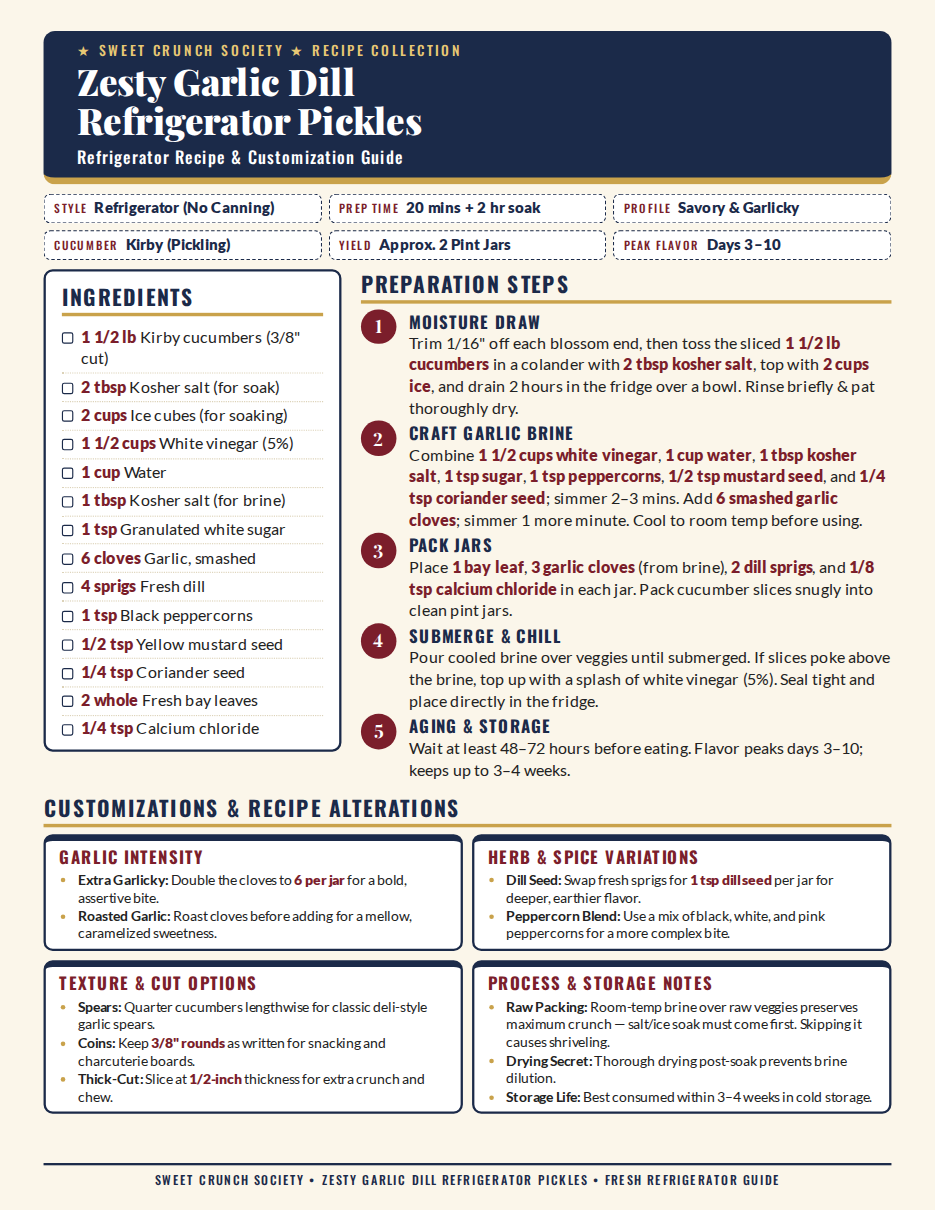
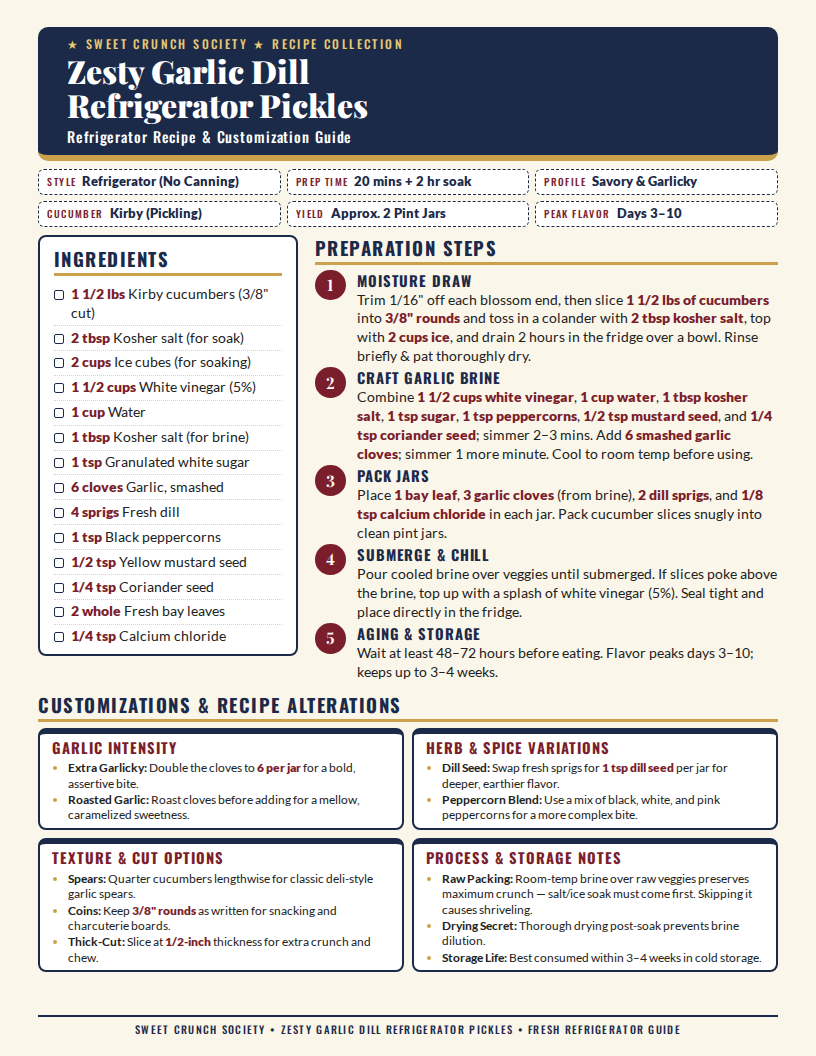
docs: fix lbs plurality and align Moisture Draw wording across recipes
- Ingredients list: "1 1/2 lb" -> "1 1/2 lbs" Kirby cucumbers in both the
  Bread & Butter and Zesty Garlic Dill cards, so the plural matches the
  quantity (audited all other units; they were already correct).
- Zesty Moisture Draw step now matches the Bread & Butter wording:
  "slice 1 1/2 lbs of cucumbers into 3/8" rounds", stating the amount
  first and the cut size explicitly.
- Regenerated docs/preview.png and docs/preview-zesty.png; both sheets
  still fit the letter page with no overflow.

diff --git a/index-zesty.html b/index-zesty.html
@@ -141,7 +141,7 @@
         <div class="ingredients">
           <h2 class="sec" id="ing">Ingredients</h2>
           <ul>
-            <li><span class="box"></span><span><b>1 1/2 lb</b> Kirby cucumbers (3/8" cut)</span></li>
+            <li><span class="box"></span><span><b>1 1/2 lbs</b> Kirby cucumbers (3/8" cut)</span></li>
             <li><span class="box"></span><span><b>2 tbsp</b> Kosher salt (for soak)</span></li>
             <li><span class="box"></span><span><b>2 cups</b> Ice cubes (for soaking)</span></li>
             <li><span class="box"></span><span><b>1 1/2 cups</b> White vinegar (5%)</span></li>
@@ -162,7 +162,7 @@
       <section aria-labelledby="prep">
         <h2 class="sec" id="prep">Preparation Steps</h2>
         <ol class="steps">
-          <li><b>Moisture Draw</b>Trim 1/16" off each blossom end, then toss the sliced <strong>1 1/2 lb cucumbers</strong> in a colander with <strong>2 tbsp kosher salt</strong>, top with <strong>2 cups ice</strong>, and drain 2 hours in the fridge over a bowl. Rinse briefly &amp; pat thoroughly dry.</li>
+          <li><b>Moisture Draw</b>Trim 1/16" off each blossom end, then slice <strong>1 1/2 lbs of cucumbers</strong> into <strong>3/8" rounds</strong> and toss in a colander with <strong>2 tbsp kosher salt</strong>, top with <strong>2 cups ice</strong>, and drain 2 hours in the fridge over a bowl. Rinse briefly &amp; pat thoroughly dry.</li>
           <li><b>Craft Garlic Brine</b>Combine <strong>1 1/2 cups white vinegar</strong>, <strong>1 cup water</strong>, <strong>1 tbsp kosher salt</strong>, <strong>1 tsp sugar</strong>, <strong>1 tsp peppercorns</strong>, <strong>1/2 tsp mustard seed</strong>, and <strong>1/4 tsp coriander seed</strong>; simmer 2–3 mins. Add <strong>6 smashed garlic cloves</strong>; simmer 1 more minute. Cool to room temp before using.</li>
           <li><b>Pack Jars</b>Place <strong>1 bay leaf</strong>, <strong>3 garlic cloves</strong> (from brine), <strong>2 dill sprigs</strong>, and <strong>1/8 tsp calcium chloride</strong> in each jar. Pack cucumber slices snugly into clean pint jars.</li>
           <li><b>Submerge &amp; Chill</b>Pour cooled brine over veggies until submerged. If slices poke above the brine, top up with a splash of white vinegar (5%). Seal tight and place directly in the fridge.</li>

diff --git a/index.html b/index.html
@@ -141,7 +141,7 @@
         <div class="ingredients">
           <h2 class="sec" id="ing">Ingredients</h2>
           <ul>
-            <li><span class="box"></span><span><b>1 1/2 lb</b> Kirby cucumbers (3/8" rounds)</span></li>
+            <li><span class="box"></span><span><b>1 1/2 lbs</b> Kirby cucumbers (3/8" rounds)</span></li>
             <li><span class="box"></span><span><b>2 whole</b> White pearl onions, peeled</span></li>
             <li><span class="box"></span><span><b>2 tbsp</b> Kosher salt (for soak)</span></li>
             <li><span class="box"></span><span><b>1/2 tsp</b> Kosher salt (for brine)</span></li>
